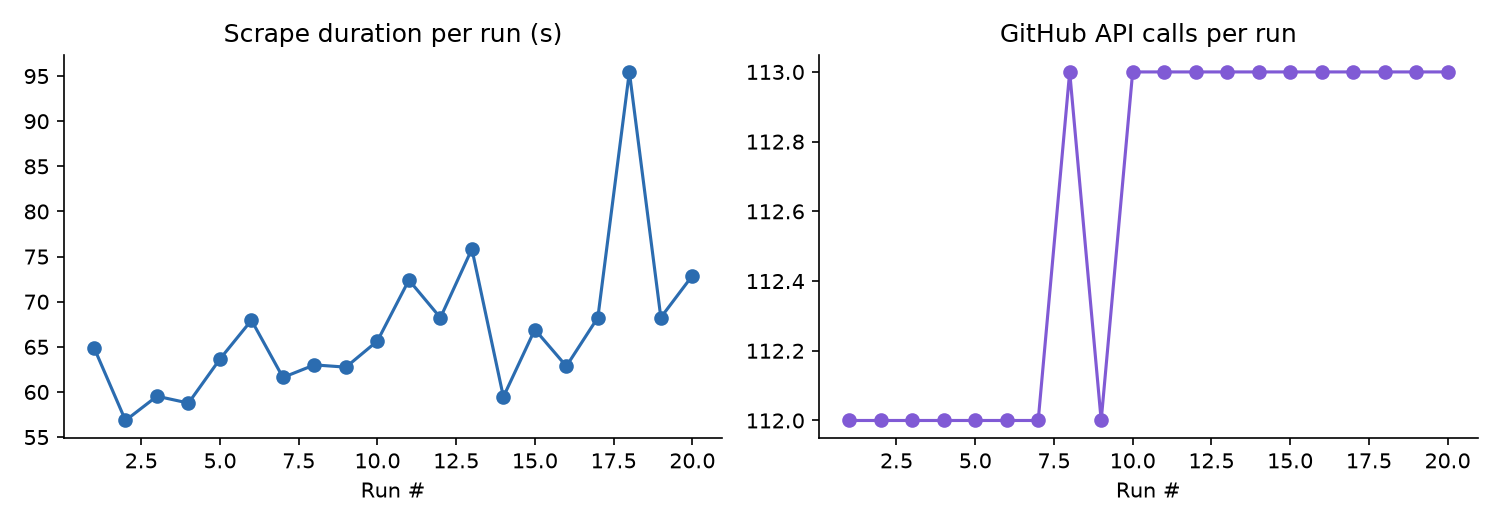
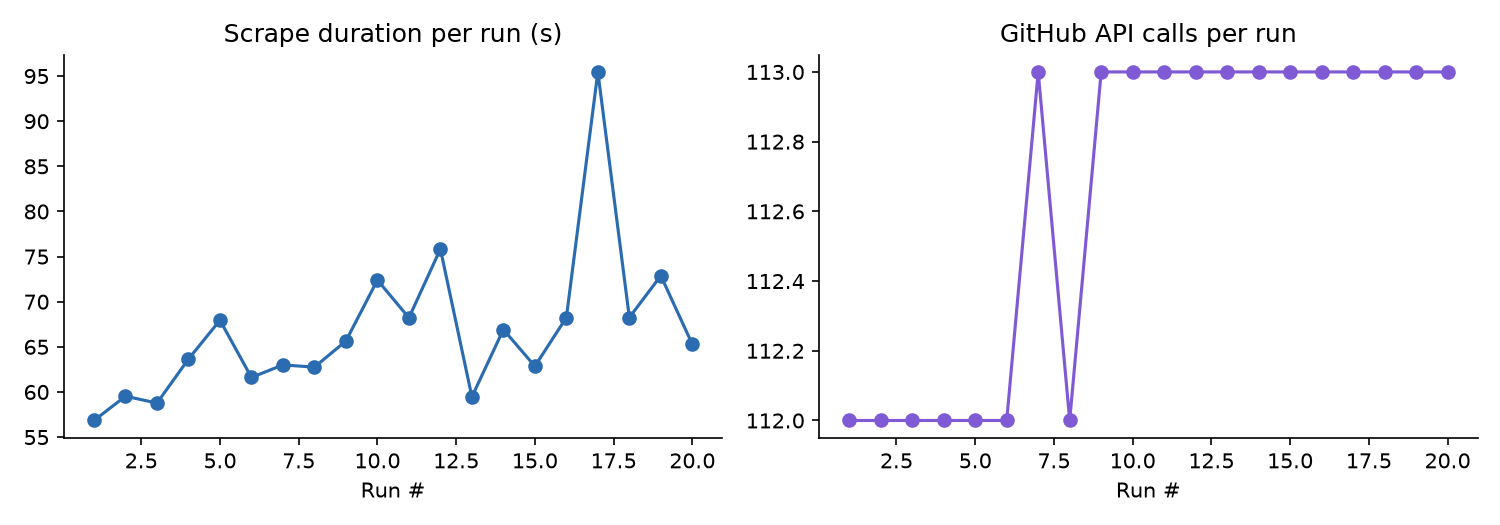
Weekly issue tracker refresh

diff --git a/README.md b/README.md
@@ -81,7 +81,7 @@ See [CONTRIBUTING.md](CONTRIBUTING.md) for the full contributor workflow — inc
 
 <!-- TRACKER:START -->
 
-_Last updated: 2026-09-02 20:10 UTC_
+_Last updated: 2026-09-02 22:36 UTC_
 
 _Tracking **18** upstream repos, **378** relevant open issues._
 
@@ -137,14 +137,14 @@ _Tracking **18** upstream repos, **378** relevant open issues._
 
 | Score | Issue | Labels | Comments | Updated |
 |---|---|---|---|---|
+| ★★☆☆☆ | [#86946](https://github.com/ansible/ansible/issues/86946) copy module - A worker was found in a dead state | module, bug, affects_2.20 | 8 | 2026-09-02 |
+| ★★☆☆☆ | [#87178](https://github.com/ansible/ansible/issues/87178) Regresssion: "'item' is undefined" if using delegate_to with with_items and conditionals | bug, affects_2.21 | 9 | 2026-09-02 |
 | ★★☆☆☆ | [#70003](https://github.com/ansible/ansible/issues/70003) dnf module: undocumented return values diverging from other modules | module, bug, has_pr, docs, P3, affects_2.11 | 4 | 2026-09-02 |
 | ★☆☆☆☆ | [#60880](https://github.com/ansible/ansible/issues/60880) Use human-readable 'name' for headings in Common Options in Config docs | docs, P3, affects_2.9 | 4 | 2026-09-02 |
 | ★☆☆☆☆ | [#74688](https://github.com/ansible/ansible/issues/74688) Linking to versioned docs from command-line output of ansible-doc | docs, affects_2.17 | 11 | 2026-09-02 |
 | ★☆☆☆☆ | [#82260](https://github.com/ansible/ansible/issues/82260) How am I supposed to pass galaxy_token? | docs, affects_2.15 | 11 | 2026-09-02 |
 | ★☆☆☆☆ | [#82459](https://github.com/ansible/ansible/issues/82459) Unarchive module inherits permissions from original zip-file. Docs not clear | module, docs, P3, verified, affects_2.14 | 3 | 2026-09-02 |
 | ★☆☆☆☆ | [#83255](https://github.com/ansible/ansible/issues/83255) Plugin development documentation requires updates which address handling Unsafe value wrappers | docs, affects_2.14, data_tagging | 6 | 2026-09-02 |
-| ★☆☆☆☆ | [#83633](https://github.com/ansible/ansible/issues/83633) There are no definitions for valid color options | docs, P3, affects_2.17 | 5 | 2026-09-02 |
-| ★☆☆☆☆ | [#84500](https://github.com/ansible/ansible/issues/84500) ansible.builtin.service_facts incorrectly documents the status values reported for systemd systems | module, has_pr, docs, P3, needs_verified, affects_2.18 | 4 | 2026-09-02 |
 
 ### [aws-observability/aws-otel-collector](https://github.com/aws-observability/aws-otel-collector)
 
@@ -296,7 +296,7 @@ _Tracking **18** upstream repos, **378** relevant open issues._
 
 <!-- METRICS:START -->
 
-_Last run: 2026-09-02 20:09 UTC, took **72.9s**, **113** GitHub API calls, **4887/5000** rate limit remaining._
+_Last run: 2026-09-02 22:35 UTC, took **65.3s**, **113** GitHub API calls, **4887/5000** rate limit remaining._
 
 ![Scrape metrics trend](assets/metrics_trend.png)
 
